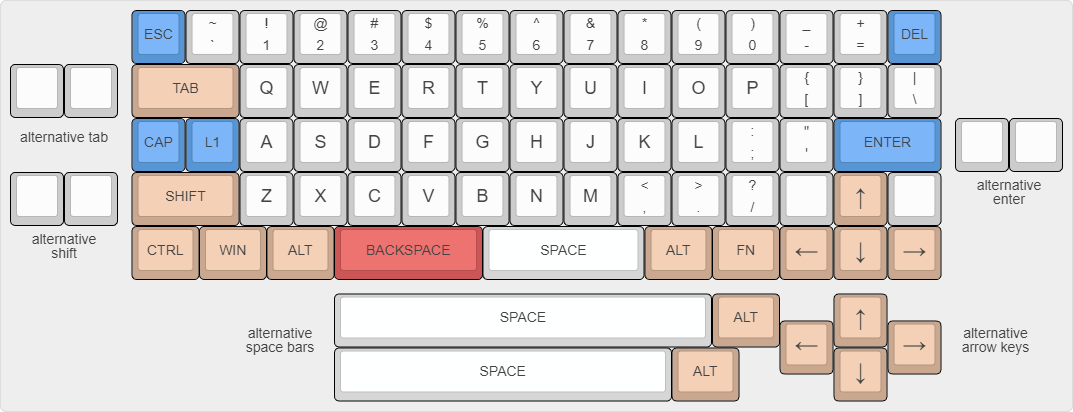
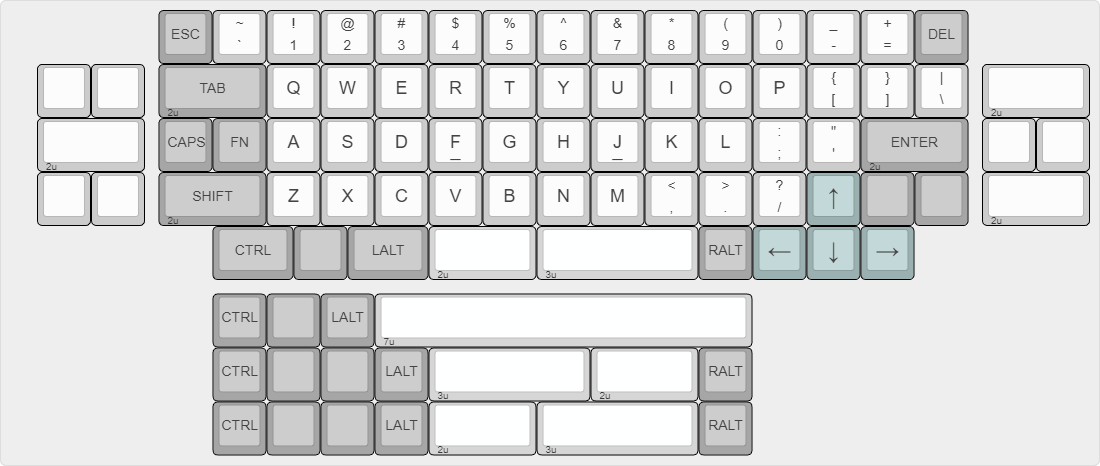
Updated readme with Revision 2 design

diff --git a/README.md b/README.md
@@ -6,7 +6,7 @@
 
 ![keyboard-layout Rev2](images/keyboard-layout_rev2.png)
 
-Revision 2 will bring more customizable layout options and various optimizaitons over the original board.
+Revision 2 will bring more customizable layout options and various optimizaitons over the original board. It will also change the layout to be more aesthetic and symetrical than it's predecesor.
 
 The purpose of this keyboard is contain all of the features I would like to have in an ortholinear keyboard (in order of importance):
 
@@ -15,41 +15,20 @@ The purpose of this keyboard is contain all of the features I would like to have
 - Offset to easily distinguish the arrow keys (fatter finger complex).
 - Unevenly-split and centered spacebar. The main reason for this is to allow for easier reach to the spacebar from the right side of board. 
 
-<details>
-  <summary>KLE Layout</summary>
-
-	[{x:2.25,c:"#5795d4",t:"#383838",st:"KS-3-Tea",a:7,f:4},"ESC",{c:"#cccccc",a:5},"~\n`","!\n1","@\n2","#\n3","$\n4","%\n5","^\n6","&\n7","*\n8","(\n9",")\n0","_\n-","+\n=",{c:"#5795d4",a:7},"DEL"],
-	[{c:"#cccccc"},"","",{x:0.25,c:"#c9a88f",w:2},"TAB",{c:"#cccccc",f:6},"Q","W","E","R","T","Y","U","I","O","P",{a:5,f:4},"{\n[","}\n]","|\n\\"],
-	[{c:"#c9a88f",a:7,w:2,d:true},"<p>alternative tab</p>",{x:0.25,c:"#5795d4"},"CAP","L1",{c:"#cccccc",f:6},"A","S","D","F","G","H","J","K","L",{a:5,f:4},":\n;","\"\n'",{c:"#5795d4",a:7,w:2},"ENTER",{x:0.25,c:"#cccccc"},"",""],
-	["","",{x:0.25,c:"#c9a88f",w:2},"SHIFT",{c:"#cccccc",f:6},"Z","X","C","V","B","N","M",{a:5,f:4},"<\n,",">\n.","?\n/",{a:7},"",{c:"#c9a88f",f:9},"↑",{c:"#cccccc",f:4},"",{x:0.25,c:"#c9a88f",w:2,d:true},"<p>alternative enter</p>"],
-	[{w:2,d:true},"<p>alternative shift</p>",{x:0.25,w:1.25},"CTRL",{w:1.25},"WIN",{w:1.25},"ALT",{c:"#cc5656",w:2.75},"BACKSPACE",{c:"#d6d6d6",w:3},"SPACE",{c:"#c9a88f",w:1.25},"ALT",{w:1.25},"FN",{f:9},"←","↓","→"],
-	[{y:0.25,x:6,c:"#d6d6d6",f:4,w:7},"SPACE",{c:"#c9a88f",w:1.25},"ALT",{x:1,f:9},"↑"],
-	[{y:-0.5,x:4,f:4,w:2,d:true},"<p>alternative space bars</p>",{x:8.25,f:9},"←",{x:1},"→",{f:4,w:2,d:true},"<p>alternative arrow keys</p>"],
-	[{y:-0.5,x:6,c:"#d6d6d6",w:6.25},"SPACE",{c:"#c9a88f",w:1.25},"ALT",{x:1.75,f:9},"↓"]
-</details>
+## Keyboard Layout Editor:
 
 ```
-[{x:2.75,c:"#b0a59e",t:"#383838",st:"KS-3-Tea",a:7,f:4},"ESC",{c:"#cccccc",a:5},"~\n`","!\n1","@\n2","#\n3","$\n4","%\n5","^\n6","&\n7","*\n8","(\n9",")\n0","_\n-","+\n=",{c:"#b0a59e",a:7},"DEL"],
-[{x:0.5,c:"#cccccc"},"","",{x:0.25,c:"#b0a59e",a:3,w:2},"TAB\n\n\n\n2u",{c:"#cccccc",a:7,f:6},"Q","W","E","R","T","Y","U","I","O","P",{a:5,f:4},"{\n[","}\n]","|\n\\"],
-[{x:0.5,a:3,w:2},"\n\n\n\n2u",{x:0.25,c:"#b0a59e",a:7},"CAP","L1",{c:"#cccccc",f:6},"A","S","D",{a:5},"\n_\n\n\n\n\nF",{a:7},"G","H",{a:5},"\n_\n\n\n\n\nJ",{a:7},"K","L",{a:5,f:4},":\n;","\"\n'",{c:"#b0a59e",a:3,w:2},"ENTER\n\n\n\n2u",{x:0.25,c:"#cccccc",a:7},"",""],
-[{x:0.5},"","",{x:0.25,c:"#b0a59e",a:3,w:2},"SHIFT\n\n\n\n2u",{c:"#cccccc",a:7,f:6},"Z","X","C","V","B","N","M",{a:5,f:4},"<\n,",">\n.","?\n/",{c:"#82b0a9",a:7,f:9},"↑",{c:"#b0a59e",f:4},"","",{x:0.25,c:"#cccccc",a:3,w:2},"\n\n\n\n2u"],
-[{x:3.75,c:"#b0a59e",a:7,w:1.5},"CTRL","",{x:1.5,c:"#d6d6d6",a:3,w:2},"\n\n\n\n2u",{w:3},"\n\n\n\n3u",{c:"#b0a59e",a:7},"RALT",{c:"#82b0a9",f:9},"←","↓","→"],
-[{y:1,x:3.75,c:"#b0a59e",f:4},"CTRL","","LALT",{c:"#d6d6d6",a:3,w:7},"\n\n\n\n7u"],
-[{x:3.75,c:"#b0a59e",a:7},"CTRL","","",{x:1,c:"#d6d6d6",a:3,w:3},"\n\n\n\n3u",{w:2},"\n\n\n\n2u",{c:"#b0a59e",a:7},"RALT"],
-[{x:3.75},"CTRL","","",{x:1,c:"#d6d6d6",a:3,w:2},"\n\n\n\n2u",{w:3},"\n\n\n\n3u",{c:"#b0a59e",a:7},"RALT"],
-[{y:1,x:3.75},"CTRL","","LALT",{c:"#000000",g:true,sm:"alps",st:""},"",{c:"#d6d6d6",g:false,sm:"",st:"KS-3-Tea",a:3,w:2},"\n\n\n\n2u",{w:3},"\n\n\n\n3u",{c:"#000000",g:true,sm:"alps",st:"",a:7},""],
-[{x:3.75,c:"#b0a59e",g:false,sm:"",st:"KS-3-Tea",w:1.5},"CTRL",{c:"#000000",g:true,sm:"alps",st:""},"",{x:1.5,c:"#d6d6d6",g:false,sm:"",st:"KS-3-Tea",a:3,w:2},"\n\n\n\n2u",{w:3},"\n\n\n\n3u",{c:"#b0a59e",a:7},"RALT"],
-[{y:1,x:3.75,a:3,w:1.5},"CTRL\n\n\n\n1.25u",{a:7},"",{a:3,w:1.25},"LALT\n\n\n\n1.25u",{c:"#d6d6d6",w:2.75},"\n\n\n\n2.75u",{w:2.75},"\n\n\n\n2.75u",{c:"#000000",g:true,sm:"alps",st:"",a:7,w:0.75},""],
-[{x:3.75,c:"#b0a59e",g:false,sm:"",st:"KS-3-Tea",a:3,w:1.25},"CTRL\n\n\n\n1.25u",{a:7},"",{a:3,w:1.25},"LALT\n\n\n\n1.25u",{c:"#d6d6d6",w:3},"\n\n\n\n3u",{w:3},"\n\n\n\n3u",{c:"#000000",g:true,sm:"alps",st:"",a:7,w:0.5},""],
-[{x:3.75,c:"#b0a59e",g:false,sm:"",st:"KS-3-Tea",a:3,w:1.25},"CTRL\n\n\n\n1.25u",{a:7,w:1.25},"",{a:3,w:1.25},"LALT\n\n\n\n1.25u",{c:"#d6d6d6",w:2.75},"\n\n\n\n2.75u",{w:2.75},"\n\n\n\n2.75u",{c:"#000000",g:true,sm:"alps",st:"",a:7,w:0.75},""],
-[{y:1,x:3.75,c:"#b0a59e",g:false,sm:"",st:"KS-3-Tea"},"CTRL",{a:3,w:1.5},"LALT\n\n\n\n1.5u",{c:"#d6d6d6",w:7},"\n\n\n\n7u",{c:"#000000",g:true,sm:"alps",st:"",a:7,w:0.5},""],
-[{x:3.75,c:"#b0a59e",g:false,sm:"",st:"KS-3-Tea",a:3,w:1.25},"CTRL\n\n\n\n1.25u",{w:1.25},"LALT\n\n\n\n1.25u",{c:"#d6d6d6",w:6.25},"\n\n\n\n6.25u",{c:"#b0a59e",w:1.25},"RALT\n\n\n\n1.25u"],
-[{x:3.75,w:1.25},"CTRL\n\n\n\n1.25u",{w:1.25},"\n\n\n\n1.25u",{w:1.25},"LALT\n\n\n\n1.25u",{c:"#d6d6d6",w:2.25},"\n\n\n\n2.25u",{w:2.75},"\n\n\n\n2.75u",{c:"#b0a59e",w:1.25},"RALT\n\n\n\n1.25u"],
-[{rx:0.25,y:4,x:6,a:7,w:1.5},"LALT"],
-[{y:2,x:6.5},"LALT"],
-[{x:6.5},"LALT"],
-[{y:2,x:6,w:1.5},"LALT"]
-
+[{x:2.75,c:"#a6a6a6",t:"#383838",st:"KS-3-Tea",a:7,f:4},"ESC",{c:"#cccccc",a:5},"~\n`","!\n1","@\n2","#\n3","$\n4","%\n5","^\n6","&\n7","*\n8","(\n9",")\n0","_\n-","+\n=",{c:"#a6a6a6",a:7},"DEL"],
+[{x:0.5,c:"#cccccc"},"","",{x:0.25,c:"#a6a6a6",a:3,w:2},"TAB\n\n\n\n2u",{c:"#cccccc",a:7,f:6},"Q","W","E","R","T","Y","U","I","O","P",{a:5,f:4},"{\n[","}\n]","|\n\\",{x:0.25,a:3,w:2},"\n\n\n\n2u"],
+[{x:0.5,w:2},"\n\n\n\n2u",{x:0.25,c:"#a6a6a6",a:7},"CAPS","FN",{c:"#cccccc",f:6},"A","S","D",{a:5},"\n_\n\n\n\n\nF",{a:7},"G","H",{a:5},"\n_\n\n\n\n\nJ",{a:7},"K","L",{a:5,f:4},":\n;","\"\n'",{c:"#a6a6a6",a:3,w:2},"ENTER\n\n\n\n2u",{x:0.25,c:"#cccccc",a:7},"",""],
+[{x:0.5},"","",{x:0.25,c:"#a6a6a6",a:3,w:2},"SHIFT\n\n\n\n2u",{c:"#cccccc",a:7,f:6},"Z","X","C","V","B","N","M",{a:5,f:4},"<\n,",">\n.","?\n/",{c:"#9bb0b0",a:7,f:9},"↑",{c:"#a6a6a6",f:4},"","",{x:0.25,c:"#cccccc",a:3,w:2},"\n\n\n\n2u"],
+[{x:3.75,c:"#a6a6a6",a:7,w:1.5},"CTRL","",{x:1.5,c:"#d6d6d6",a:3,w:2},"\n\n\n\n2u",{w:3},"\n\n\n\n3u",{c:"#a6a6a6",a:7},"RALT",{c:"#9bb0b0",f:9},"←","↓","→"],
+[{y:0.25,x:3.75,c:"#a6a6a6",f:4},"CTRL","","LALT",{c:"#d6d6d6",a:3,w:7},"\n\n\n\n7u"],
+[{x:3.75,c:"#a6a6a6",a:7},"CTRL","","",{x:1,c:"#d6d6d6",a:3,w:3},"\n\n\n\n3u",{w:2},"\n\n\n\n2u",{c:"#a6a6a6",a:7},"RALT"],
+[{x:3.75},"CTRL","","",{x:1,c:"#d6d6d6",a:3,w:2},"\n\n\n\n2u",{w:3},"\n\n\n\n3u",{c:"#a6a6a6",a:7},"RALT"],
+[{rx:0.25,y:4,x:6,sm:"alps",w:1.5},"LALT"],
+[{y:1.25,x:6.5},"LALT"],
+[{x:6.5},"LALT"]
 ```
 
 ---
